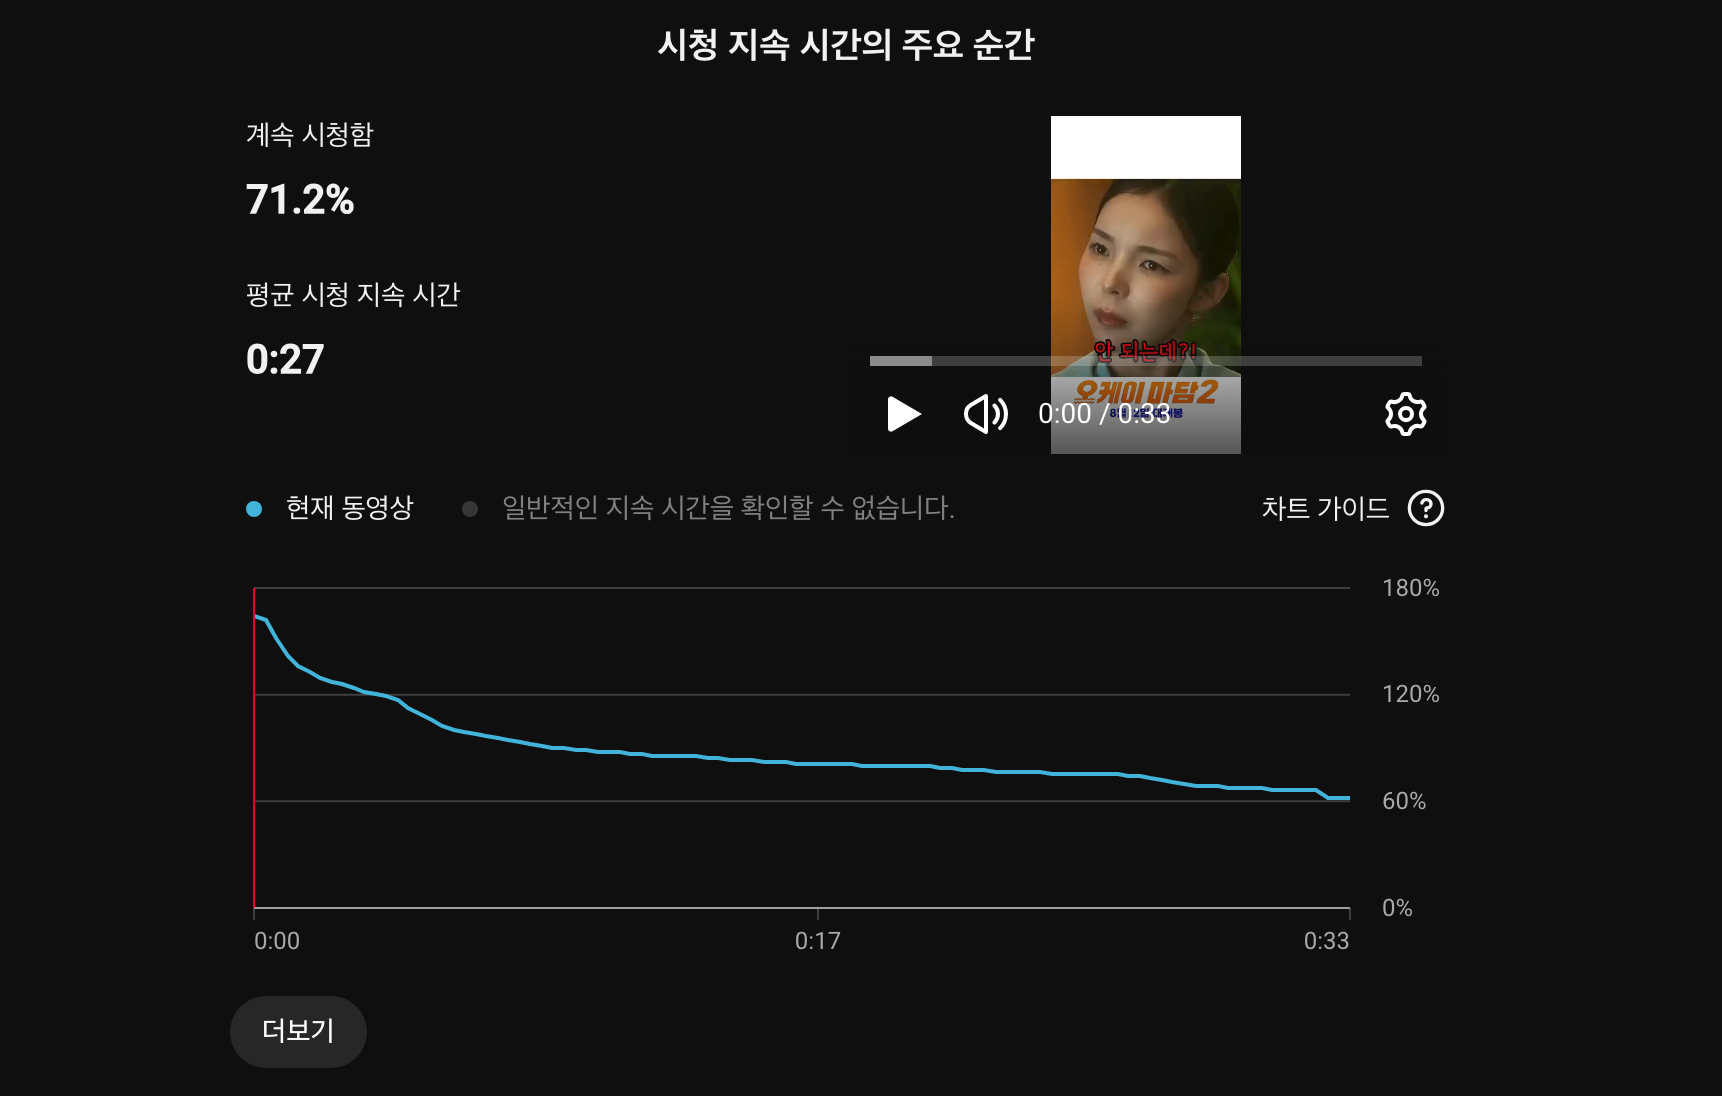
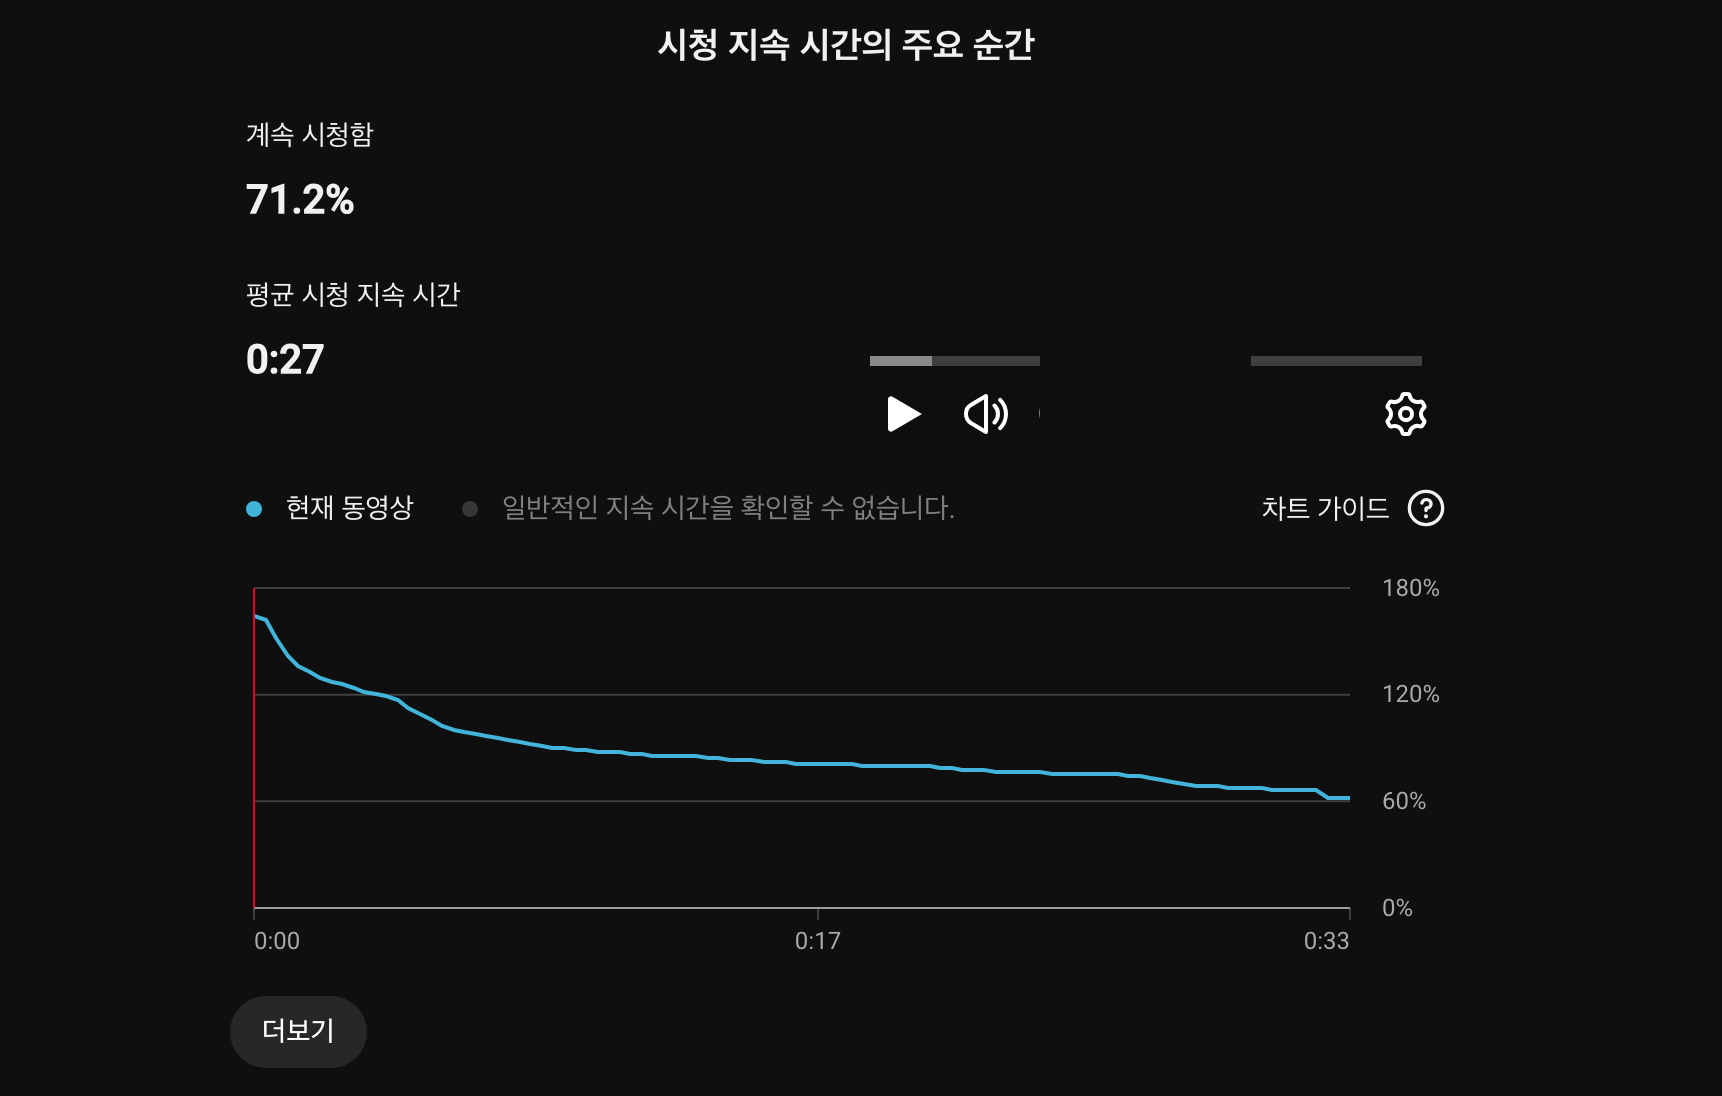
fix(blog): 8/19 훅 글 정정 - 작품 식별 정보와 출처 없는 비교 수치 정리, 과장 표현 완화, 업데이트 안내 추가

Changed region(s): [[0.5848, 0.0931, 0.7387, 0.4343]]

diff --git a/src/content/blog/2026-08-19-shorts-opening-hook-strategy.md b/src/content/blog/2026-08-19-shorts-opening-hook-strategy.md
@@ -6,117 +6,115 @@ pubDate: "2026-08-19T21:00:00+09:00"
 heroImage: "../../assets/shorts_opening_hook_1786875110012.jpg"
 ---
 
+> 업데이트(2026-10-07): 이 글의 사례는 한 영상의 관측입니다. 이후 사례(피드 잔존율 55~58%에서도 250만 뷰 도달)에서는 높은 잔존율이 유일한 조건이 아니었습니다. 자세한 내용은 [쇼츠 알고리즘의 역설](/blog/2026-09-11-shorts-retention-vs-watch-time-share-algorithm/)에서 다룹니다.
+
 제 관찰로는 유튜브 쇼츠 피드에서 사용자가 다음 영상으로 화면을 넘기는 데 걸리는 시간은 대체로 1.5~2초 안팎입니다.
 
 크리에이터가 아무리 뛰어난 스토리와 화려한 컷 편집, 충격적인 결말을 준비했더라도, 시청자의 손가락이 위로 스와이프되는 그 찰나의 순간을 붙잡지 못하면 영상의 나머지 95%는 세상의 빛을 보지 못한 채 알고리즘의 바닥으로 가라앉습니다.
 
 유튜브 추천 알고리즘의 핵심 판별 기준은 명확합니다. '첫 3초 동안 시청자가 스와이프하지 않고 머물렀는가(Viewed vs Swiped away)', 그리고 '그 몰입이 영상 끝까지 유지되었는가(Average Percentage Viewed)'입니다.
 
-자체 운영 스토리 쇼츠 채널을 운영하며 수백 편의 영화·드라마 리뷰 쇼츠를 기획하고 분석하는 과정에서, 도입부 3초의 연출 방식을 어떻게 설계하느냐에 따라 영상의 시청 지속 시간 곡선과 최종 조회수가 완전히 달라지는 인과관계를 스튜디오 통계로 직접 확인했습니다.
+제가 운영하는 스토리 쇼츠 채널의 영상을 기획하고 분석하면서, 도입부 3초를 어떻게 설계하느냐에 따라 시청 지속 시간 곡선이 달라지는 경향을 스튜디오 통계로 관측했습니다.
 
-본 글에서는 누적 76.8만 회의 조회수와 71.2%의 경이로운 시청 유지율을 기록한 자체 운영 채널의 실제 쇼츠 사례를 바탕으로, 시청자의 뇌를 즉각적으로 락인(Lock-in)시키는 0~3초 오프닝 훅의 시각·청각 설계 공식과 알고리즘 확장 메커니즘을 상세히 공개합니다.
+이 글에서는 누적 조회수 76.8만 회, 계속 시청 비율 71.2%를 기록한 제 채널의 쇼츠 한 편을 사례로, 0~3초 오프닝 훅을 어떻게 설계했는지와 그 뒤에 관측된 변화를 정리합니다.
 
 ## 손가락을 멈추게 하는 0~3초의 3중 후킹 메커니즘
 
-쇼츠 피드를 무의식적으로 넘기던 시청자가 특정 영상에서 손가락을 멈추는 과정은 고도의 인지 심리학적 반응을 수반합니다. 시각(인물의 표정), 언어(헤드라인 텍스트), 청각(대사 및 효과음)의 3가지 자극이 0.5초 안에 동시에 뇌로 전달되어 "이 영상을 더 보지 않으면 궁금해서 견딜 수 없다"는 인지적 불일치(Cognitive Dissonance)를 유발해야 합니다.
+쇼츠 피드를 넘기던 시청자의 손가락을 멈추게 하려고, 저는 시각(인물의 표정), 언어(헤드라인 텍스트), 청각(대사 및 효과음) 세 가지를 첫 0.5초 안에 함께 보여 주는 규칙을 씁니다. "이 영상을 더 보면 궁금한 게 풀리겠다"고 느끼게 하는 것이 목표입니다.
 
 시각(표정)과 텍스트의 감정선이 일치할 때 시청자가 상황을 더 빨리 이해한다는 것이 제 편집 경험입니다(실험으로 검증한 수치는 아닙니다).
 
 ## 분석 사례 1: 0~3초 오프닝 훅의 시각·언어적 3중 결합 설계
 
-실제 누적 조회수 76.8만 회를 돌파한 자체 운영 채널의 쇼츠 영상(`[Case C] 코믹 액션 영화 쇼츠 (33초)`, 러닝타임 33초)의 도입부 0초 지점 실제 캡처 화면입니다.
+사례는 누적 조회수 76.8만 회를 기록한 33초 쇼츠 한 편입니다. 이 영상의 도입부 0초 지점은 세 가지 장치로 구성했습니다.
 
-![자체 운영 채널 76만 뷰 쇼츠의 0초 오프닝 훅 실전 프레임 화면](../../assets/blog/shorts_hook_live_frame.jpeg)
+### 1. 상단 상황 요약 헤드라인
+화면 상단에 상황을 한 줄로 요약한 카피를 배치했습니다. 시청자는 재생하자마자 어떤 상황이 펼쳐질지 짐작할 수 있습니다.
 
-위 스크린샷에는 시청자의 이탈을 방어하기 위한 3가지 핵심 훅 장치가 유기적으로 배치되어 있습니다.
-
-### 1. 상단 상황 요약 헤드라인: 0.2초 인지 앵커링
-상단에 위치한 `자체 운영 채널` 채널 로고 바로 아래에 `[Case C] 코믹 액션 영화 쇼츠 ㅋㅋ`이라는 직관적인 상황 요약 카피를 배치했습니다. 시청자는 영상을 재생하자마자 "아, 크루즈 승무원이 겪는 코믹하고 난감한 상황이 펼쳐지겠구나"라는 시청 맥락(Context)을 0.2초 만에 완벽히 이해합니다.
-
-### 2. 인물의 극적인 당황 표정 클로즈업: 감정 미러링
-화면 중앙을 가득 채운 승무원 인물의 흔들리는 눈빛과 굳어버린 표정은 시청자에게 즉각적인 감정 전이(Emotional Mirroring)를 일으킵니다. "도대체 무슨 일이 벌어졌길래 저런 표정을 짓고 있는가?"라는 본능적인 호기심을 유도합니다.
+### 2. 인물의 당황한 표정 클로즈업
+화면 중앙을 가득 채운 인물의 흔들리는 눈빛과 굳은 표정으로 시작했습니다. "도대체 무슨 일이 벌어졌길래 저런 표정을 짓고 있는가?"라는 궁금증을 노린 연출입니다.
 
 ### 3. 고대비 대사 자막 훅: "안 되는데?!" 위기 고조
-인물의 대사인 `안 되는데?!`를 붉은색 외곽선과 굵은 고딕 폰트로 화면 중앙에 배치했습니다. 금지와 위기를 암시하는 강렬한 한마디는 시청자에게 다음 장면에 어떤 사고가 터질지 확인하고 싶은 강력한 긴장감을 부여합니다.
+인물의 대사인 `안 되는데?!`를 붉은색 외곽선과 굵은 고딕 폰트로 화면 중앙에 배치했습니다. 금지와 위기를 암시하는 한마디라서, 다음 장면에서 무슨 일이 터질지 궁금해지도록 의도했습니다.
 
-이처럼 '상단 상황 정리 + 중앙 감정 클로즈업 + 고대비 위기 대사'가 9:16 안전지대 안에서 완벽한 삼각형 구도를 이루며 피드 스와이프를 원천 차단했습니다.
+'상단 상황 정리 + 중앙 감정 클로즈업 + 고대비 위기 대사' 세 요소를 9:16 안전지대 안에 모아 배치했습니다. 이 영상에서는 첫 3초 이탈이 적게 나타났습니다.
 
-## 분석 사례 2: 3초 훅이 만들어낸 71.2% 시청 지속 시간 곡선
+## 분석 사례 2: 71.2%의 계속 시청 비율과 시청 지속 시간 곡선
 
-위와 같이 정교하게 기획된 오프닝 훅이 실제 시청자들의 이탈 방어에 어떤 수치적 결과를 만들어냈는지, 유튜브 스튜디오의 실제 분석 데이터를 확인해 봅니다.
+이 오프닝 훅 뒤에 시청 지속 시간이 어떻게 나왔는지 유튜브 스튜디오 데이터로 확인해 봅니다.
 
 ![유튜브 스튜디오 시청 지속 시간의 주요 순간 71.2% 리텐션 곡선 스크린샷](../../assets/blog/studio_shorts_hook_retention_curve.png)
 
 위 화면은 해당 33초 쇼츠 영상의 유튜브 스튜디오 '시청 지속 시간의 주요 순간' 분석 그래프입니다.
 
 ### 1. 계속 시청함 71.2% 달성
-그래프 상단에 명시된 '계속 시청함: 71.2%' 수치는, 피드에서 이 영상을 마주한 시청자 10명 중 7명 이상이 스와이프하지 않고 3초 이상 영상을 계속 시청했음을 입증합니다. 일반적인 쇼츠의 평균 계속 시청 비율이 50~60% 선에 머무는 것과 비교하면 두드러진 수치입니다.
+그래프 상단에 명시된 '계속 시청함: 71.2%' 수치는, 피드에서 이 영상을 마주한 시청자 10명 중 7명 이상이 스와이프하지 않고 3초 이상 영상을 계속 시청한 것으로 나타났습니다.
 
 ### 2. 평균 시청 지속 시간 27초 (완주율 81.8%)
-총 33초 러닝타임 중 평균 시청 지속 시간은 27초를 기록했습니다. 이는 전체 영상의 81.8%에 해당하는 길이입니다. 초반 3초의 훅을 통과한 시청자 대다수가 중간에 이탈하지 않고 결말부까지 영상을 소비했음을 의미합니다.
+총 33초 러닝타임 중 평균 시청 지속 시간은 27초를 기록했습니다. 이는 전체 영상의 81.8%에 해당하는 길이입니다. 초반 3초를 지난 시청자 상당수가 결말부 가까이까지 시청한 것으로 보입니다.
 
 ### 3. 이상적인 리텐션 감쇄 곡선
-그래프를 보면 0:00 지점에서 140% 이상의 초기 지수로 시작하여, 3초(0:03) 지점을 통과한 이후에도 완만한 하향 곡선을 그리며 영상 종료 시점(0:33)까지 60% 이상의 높은 유지율을 끝까지 방어합니다. 초반 후킹이 영상 전체의 체류 시간을 견인하는 지렛대 역할을 완벽히 수행했습니다.
+그래프를 보면 0:00 지점에서 140% 이상의 초기 지수로 시작하여, 3초(0:03) 지점을 통과한 이후에도 완만한 하향 곡선을 그리며 영상 종료 시점(0:33)까지 60% 이상의 높은 유지율을 끝까지 방어합니다. 초반 유지율이 높게 시작해 영상 전체의 시청 지속 시간을 받쳐 준 것으로 보입니다.
 
 제 채널 데이터에서는 첫 3초 이탈이 적고 시청 지속 시간이 영상 길이의 70%를 넘는 영상이 더 넓게 추천되는 경향이 있었습니다(공식 문서에 명시된 기준이 아닌 관측입니다).
 
-## 분석 사례 3: 높은 리텐션이 견인한 76.8만 뷰 알고리즘 반응
+## 분석 사례 3: 76.8만 뷰까지 이어진 조회수 곡선
 
-초반 3초 훅과 71.2%의 높은 유지율이 결합되었을 때, 유튜브 추천 엔진이 해당 영상을 어떻게 평가하고 확장시켰는지 최종 성과를 확인해 봅니다.
+이 영상이 이후 어떤 조회수 곡선을 그렸는지 확인해 봅니다.
 
 ![유튜브 스튜디오 개요 탭 누적 76.8만 회 조회수 급상승 스크린샷](../../assets/blog/studio_shorts_hook_views_breakthrough.png)
 
 위 화면은 유튜브 스튜디오 동영상 분석 [개요] 탭의 실제 성과 지표입니다.
 
-### 1. 조회수 76.8만 회 (채널 평소 대비 3.9배 폭증)
-상단 안내 문구에 명시되었듯 "아주 좋습니다. 조회수가 다른 Shorts 동영상보다 3.9배 증가했습니다."라는 알고리즘 진단과 함께, 누적 76.8만 회(평소보다 57만 회 높음)의 가파른 트래픽을 기록했습니다.
+### 1. 조회수 76.8만 회 (다른 쇼츠 대비 3.9배)
+스튜디오 상단에 "아주 좋습니다. 조회수가 다른 Shorts 동영상보다 3.9배 증가했습니다."라는 안내가 떴고, 누적 조회수는 76.8만 회로 평소보다 57만 회 높았습니다.
 
-### 2. 초기 4일 만의 수직 상승 성장 곡선
-시간대별 조회수 그래프를 보면, 영상 게시 직후 0~4일 차 구간에서 가파른 수직 상승 곡선을 그리며 순식간에 50만 뷰를 돌파한 뒤 76만 뷰 이상으로 안착했습니다. 초반 높은 시청 유지율 데이터를 확인한 알고리즘이 피드 노출 풀(Pool)을 광범위하게 확장시켰기 때문입니다.
+### 2. 초기 4일 안에 가팔랐던 조회수 곡선
+시간대별 조회수 그래프를 보면 게시 직후 4일 안에 50만 뷰를 넘겼고, 이후 76만 뷰 이상에서 완만해졌습니다. 이 곡선의 이유를 높은 시청 유지율 하나로 단정할 근거는 없고, 한 영상에서 관측된 모양입니다.
 
-### 3. 구독자 순증 +53명 및 채널 성장 기여
-높은 완주율과 만족스러운 시청 경험은 영상 1편만으로 53명의 순수 구독자 유입을 이끌어내며 채널의 기초 체력을 강화했습니다.
+### 3. 구독자 +53명
+이 영상 한 편으로 구독자가 53명 늘었습니다.
 
 ## 성공적인 3초 훅 vs 일반적인 오프닝 이탈 패턴 비교
 
-자체 운영 채널에서 분석한 고성과 쇼츠와 초반 이탈률이 높았던 일반 쇼츠 간의 도입부 설계 차이는 다음과 같습니다.
+이 글의 사례와 초반 이탈이 많았던 쇼츠를 비교하면 도입부 설계에서 이런 차이가 있었습니다. 오른쪽 열은 제 채널에서 본 경향을 정리한 것이고, 영상 수와 수치로 집계한 값은 아닙니다.
 
-| 분석 항목 | 고성과 3초 훅 쇼츠 (76.8만 뷰 기준) | 초반 이탈 쇼츠 (평균 1만 뷰 미만) |
+| 분석 항목 | 이 글의 사례 쇼츠 (76.8만 뷰) | 초반 이탈이 많았던 쇼츠 |
 |---|---|---|
 | 0~1초 첫 시각 요소 | 인물의 극적인 감정 표정 클로즈업 | 밋밋한 풍경, 배경, 또는 채널 인트로 |
-| 상단 텍스트 앵커 | 직관적 상황 요약 카피 (`극한 직업...`) | 텍스트 없음 또는 모호한 추상적 문구 |
+| 상단 텍스트 앵커 | 직관적 상황 요약 카피 | 텍스트 없음 또는 모호한 추상적 문구 |
 | 첫 대사 및 오디오 | 위기·갈등 유발 대사 (`안 되는데?!`) | "안녕하세요", 자기소개, 또는 정적 |
 | 자막 디자인 및 배치 | 고대비 폰트, 화면 중앙 안전지대 배치 | 작고 얇은 폰트, 상·하단 UI 가림 영역 |
-| 계속 시청함 (Viewed %) | 71.2% (10명 중 7명 락인) | 45.0% ~ 52.0% (과반수 즉시 스와이프) |
-| 평균 시청 유지율 (AVD) | 81.8% (33초 중 27초 완주) | 40.0% ~ 50.0% (중반부 급격한 이탈) |
-| 알고리즘 피드 확장 여부 | 추천 트래픽 3.9배 폭증 (76만 뷰 도달) | 초기 테스트 피드 1만 회 미만에서 노출 중단 |
+| 계속 시청함 (Viewed %) | 71.2% (10명 중 7명이 3초 이상 시청) | 낮음 (즉시 스와이프가 많음) |
+| 평균 시청 유지율 (AVD) | 81.8% (33초 중 27초 시청) | 낮음 (중반부 이탈이 큼) |
+| 알고리즘 피드 확장 여부 | 다른 쇼츠 대비 조회수 3.9배 (76.8만 뷰) | 조회수가 크게 늘지 않음 |
 
 
 ## 크리에이터가 즉시 적용 가능한 4가지 오프닝 후킹 공식
 
-자체 운영 채널을 운영하며 검증한, 쇼츠 기획 시 즉시 적용할 수 있는 4가지 실전 오프닝 후킹 공식은 다음과 같습니다.
+제가 쇼츠를 기획할 때 쓰는 오프닝 규칙 4가지를 정리합니다. 실험으로 검증한 것은 아니고, 제 채널에서 써 본 방식입니다.
 
-### 1. 감정 미러링 훅 (Emotional Mirroring)
-영상 시작과 동시에 인물의 가장 충격적이거나, 억울하거나, 분노하거나, 황당해하는 표정을 풀샷이 아닌 타이트한 바스트/클로즈업 샷으로 배치합니다. 인간의 뇌는 타인의 강렬한 표정을 보는 순간 거울 신경세포(Mirror Neuron)를 작동시켜 같은 감정 상태로 동기화됩니다.
+### 1. 감정 클로즈업 훅
+영상 시작과 동시에 인물의 가장 충격적이거나, 억울하거나, 분노하거나, 황당해하는 표정을 풀샷이 아닌 타이트한 바스트/클로즈업 샷으로 배치합니다. 표정이 강하게 보이면 시청자가 상황을 더 빨리 이해한다는 것이 제 편집 경험입니다.
 
 ### 2. 갈등 선제시 훅 (Inverted Conflict)
 기승전결의 전통적인 서사 구조를 완전히 뒤집어야 합니다. 사건의 발단이나 배경 설명을 모두 잘라내고, 영상의 클라이맥스나 가장 당황스러운 위기 대사(예: "안 되는데?!", "이게 왜 여기 있어?")를 0.0초 지점에 먼저 터뜨린 후 과거 시점으로 되돌아가는 역피라미드 구조를 취합니다.
 
 ### 3. 상단 텍스트 앵커링 (Context Anchor)
-소리를 켜지 않고 무음으로 쇼츠를 넘겨보는 시청자들을 위해, 상단 안전지대에 상황을 단 5~10글자로 요약하는 텍스트 앵커를 항상 배치합니다. 시청자가 영상을 이해하기 위해 머리를 쓸 필요 없이 즉시 상황에 몰입할 수 있도록 뇌의 인지 부하를 제로(0)로 만들어 줍니다.
+소리를 켜지 않고 무음으로 쇼츠를 넘겨보는 시청자들을 위해, 상단 안전지대에 상황을 단 5~10글자로 요약하는 텍스트 앵커를 항상 배치합니다. 시청자가 상황을 이해하는 데 머리를 쓰지 않아도 되도록 돕는 것이 목적입니다.
 
-### 4. 궁금증 유발과 결말 지연 (미완결 심리 효과)
-"이 사건의 결말이 어떻게 될까?", "이 위기를 어떻게 모면할까?"라는 질문을 먼저 던져놓고 핵심 결말을 후반부로 미룹니다. 인간은 미완성된 이야기나 풀리지 않은 궁금증을 끝까지 확인하려는 심리적 본능이 있으므로, 초반 3초에 심어둔 의문은 30초 이상의 높은 완주율로 직결됩니다.
+### 4. 궁금증 유발과 결말 지연
+"이 사건의 결말이 어떻게 될까?", "이 위기를 어떻게 모면할까?"라는 질문을 먼저 던져놓고 핵심 결말을 후반부로 미룹니다. 초반에 던진 의문이 영상 끝까지 보게 하는 힘이 되기를 기대하고 쓰는 방식입니다. 이 사례의 평균 시청 지속 시간이 27초였다는 점은 그 방향의 관측입니다.
 
 ## 오프닝 3초에 전체 편집 시간의 50%를 투자하라
 
 쇼츠 제작에서 가장 흔히 범하는 실수는 영상의 후반부 완성도에 대부분의 에너지를 쏟고, 정작 시청자가 처음 마주하는 0~3초 구간은 영상 원본의 시작 부분을 그대로 이어 붙이는 것입니다.
 
-자체 운영 채널의 76.8만 뷰 스튜디오 지표가 증명하듯, 첫 3초에서 시청자를 사로잡지 못하면 아무리 훌륭한 후반부도 존재하지 않는 것과 같습니다.
+76.8만 뷰 쇼츠 한 편의 스튜디오 지표에서 저는 첫 3초의 중요성을 확인했습니다. 첫 3초에서 시청자를 붙잡지 못하면 후반부는 보여 줄 기회가 없습니다.
 
 편집 타임라인을 열었을 때, 다음 3가지를 스스로에게 질문해 보시기 바랍니다:
 1. 0.0초 시작 화면에서 인물의 시선과 표정이 시청자의 시선을 즉각 사로잡고 있는가?
 2. 상단 헤드라인과 자막 카피가 어떤 상황인지 0.5초 만에 설명하고 있는가?
 3. 첫 대사가 시청자에게 "왜?"라는 궁금증을 강하게 유발하고 있는가?
 
-이 3가지 조건을 충족하는 정교한 3초 훅을 설계하는 데 전체 편집 시간의 절반을 투자하십시오. 71.2%의 시청 유지율과 알고리즘의 가파른 트래픽 확장은 바로 그 찰나의 3초에서 시작됩니다.
+이 3가지 조건을 충족하는 정교한 3초 훅을 설계하는 데 전체 편집 시간의 절반을 투자하십시오. 이 사례의 71.2%라는 숫자도 바로 그 3초를 지난 시청자의 비율입니다.
